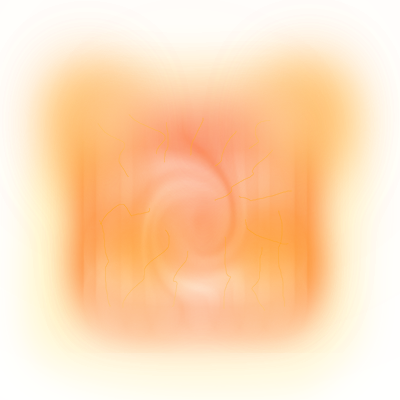
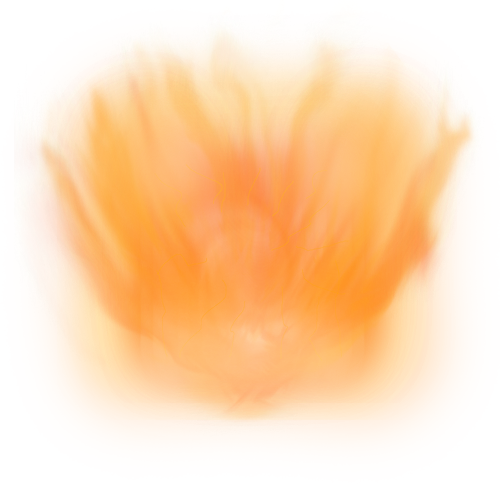
Added thrusters to slide 3, updated fire effect slide

diff --git a/sass/_page-the-cloning-process.scss b/sass/_page-the-cloning-process.scss
@@ -101,19 +101,30 @@
     margin-left: -6%;
     top: 50%;
     left: 50%;
-    z-index: 1;
+    z-index: 2;
 }
 
 #ig-cube-fire {
-    width: 16%;
+    width: 20%;
     position: fixed;
-    margin-top: -8%;
-    margin-left: -8%;
+    margin-top: -10%;
+    margin-left: -10%;
     top: 50%;
     left: 50%;
     display: none;
-    z-index: 2;
+    z-index: 3;
     animation: ig-cube-2 .1s alternate infinite linear;
+}
+
+#ig-thrusters {
+    width: 12%;
+    position: fixed;
+    margin-top: -6%;
+    margin-left: -6%;
+    top: 50%;
+    left: 50%;
+    display: none;
+    z-index: 1;
 }
 
 .ig-animate {
@@ -133,6 +144,15 @@
         }
         ~ #ig-cube-fire {
             display: block;
+        }
+    }
+
+    &.ig-current-slide--3 {        
+        ~ #ig-cube {
+        }
+        ~ #ig-thrusters {
+            display: block;
+            animation: ig-cube-3-thrusters 2s alternate infinite linear;
         }
     }
 
@@ -161,8 +181,13 @@
     100% { left: 51%; }
 }
 
+@keyframes ig-cube-3-thrusters {
+    0%   { top: 50%; opacity: 1; }
+    100% { top: 49%; opacity: 0.5; }
+}
+
 @keyframes ig-cube-5 {
-    0%   { top: 50%;  }
+    0%   { top: 50%; }
     100% { top: -10%; }
 }
 

diff --git a/views/the-cloning-process.php b/views/the-cloning-process.php
@@ -18,7 +18,8 @@
         </div>
     </div>
     <img src="/img/infographic/clone-cube.png" id="ig-cube" alt="Clone Cube"/>
-    <img src="/img/infographic/clone-cube-fire.png" alt="Plane" id="ig-cube-fire" class="ig-animate"/>
+    <img src="/img/infographic/clone-cube-fire.png" alt="Fire" id="ig-cube-fire" class="ig-animate"/>
+    <img src="/img/infographic/thrusters.png" alt="Thrusters" id="ig-thrusters" class="ig-animate"/>
     <i id="ig-prev" class="ico-arrow-up2"></i>
     <i id="ig-next" class="ico-arrow-down2"></i>
 
